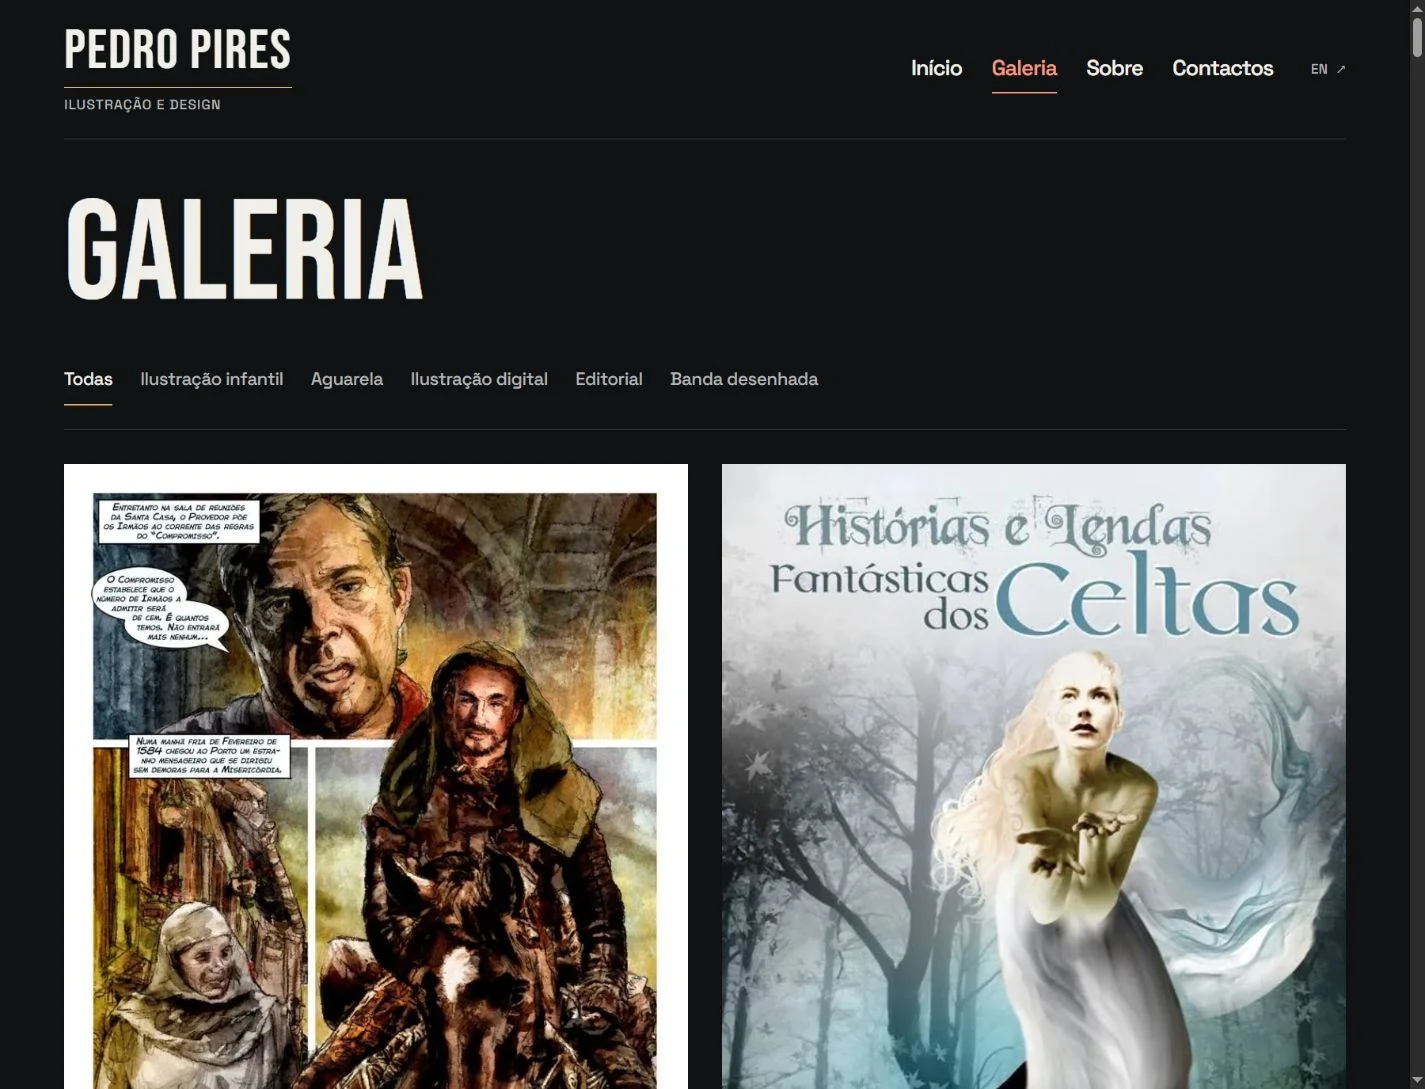
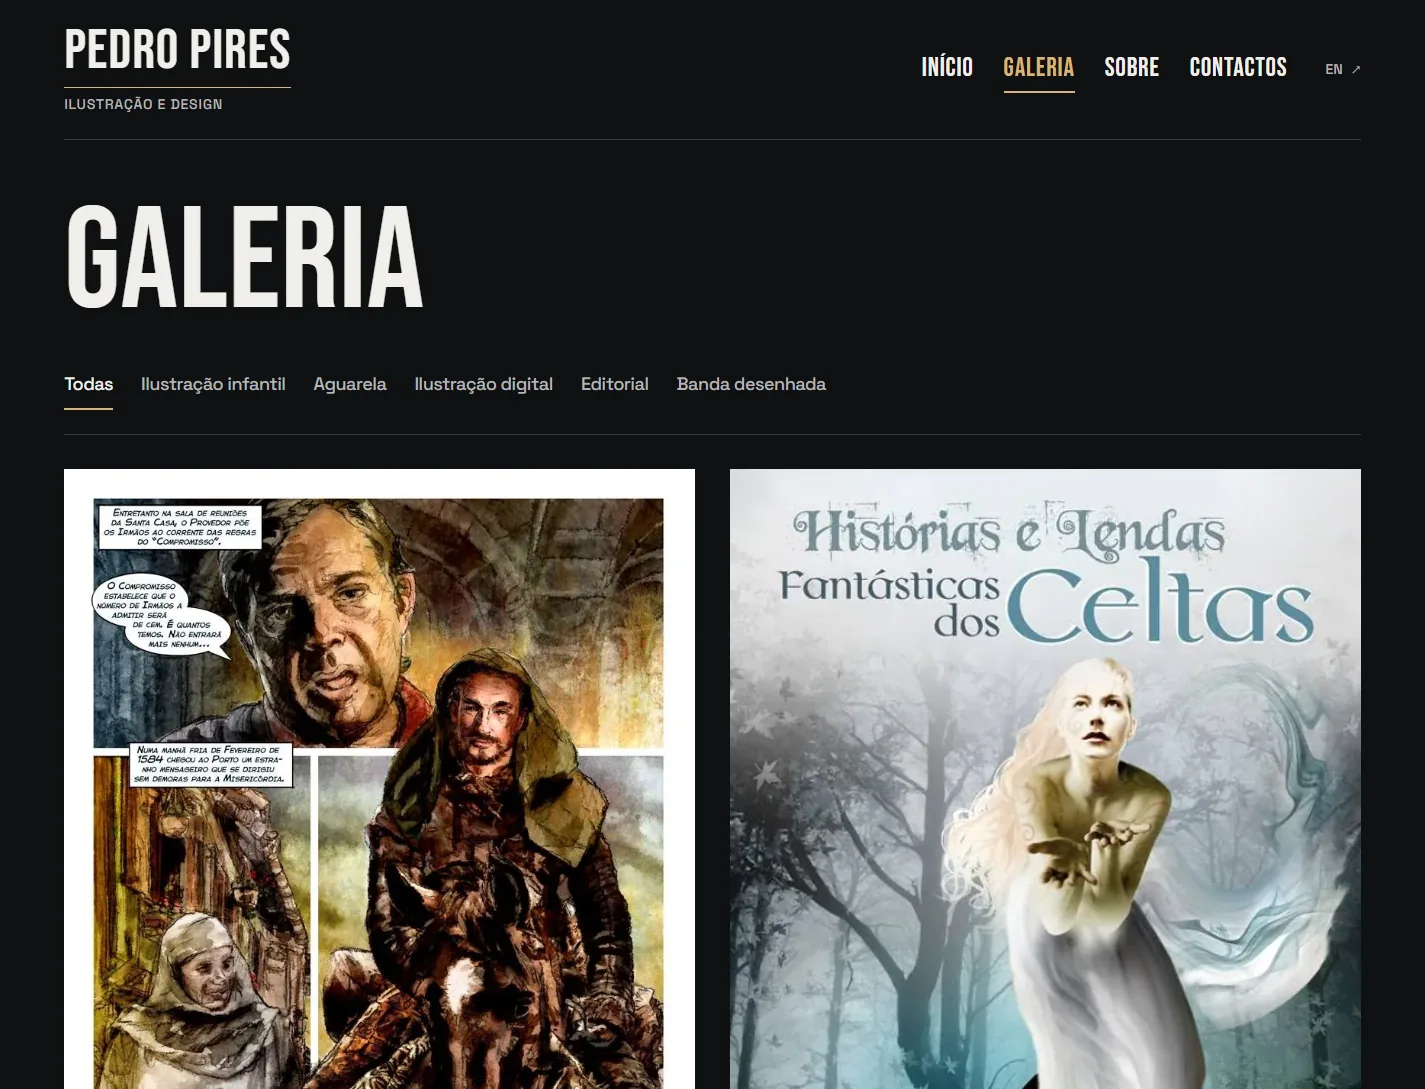
Refresh Pedro Pires screenshots and polish portfolio homepage

diff --git a/src/styles/home.css b/src/styles/home.css
@@ -1,0 +1,23 @@
+/* Homepage refinements shared by PT/EN; other page layouts stay unchanged. */
+:root .home-hero { grid-template-columns:minmax(0, 1fr) auto; gap:clamp(24px,4vw,56px); min-height:0; padding-block:clamp(48px,6vw,80px); }
+:root .home-hero-copy { min-width:0; }
+:root .home-hero h1 { max-width:22ch; margin:0 0 24px; font:600 clamp(32px,4vw,56px)/1.12 var(--display); letter-spacing:-.05em; text-wrap:balance; overflow-wrap:break-word; }
+:root .home-hero-subtitle { max-width:48ch; font-size:clamp(19px,1.7vw,23px); line-height:1.4; letter-spacing:-.025em; }
+:root .home-hero-description { max-width:66ch; line-height:1.7; }
+:root .signature-name { font-size:21px; letter-spacing:.025em; }
+:root .home-profile, :root .home-areas, :root .home-contact { padding-block:clamp(44px,5vw,72px); }
+:root .home-projects { padding-block:clamp(44px,5vw,72px); }
+:root .home-profile-grid h2, :root .home-contact h2 { font-size:clamp(30px,3.7vw,46px); line-height:1.13; letter-spacing:-.045em; text-wrap:balance; }
+:root .home-projects .section-heading h2, :root .home-areas .section-heading h2 { font-size:clamp(30px,3.7vw,46px); line-height:1.13; letter-spacing:-.045em; text-wrap:balance; }
+:root .home-project-card { min-height:0; padding:clamp(22px,2.5vw,32px); box-shadow:none; }
+:root .home-project-card:hover { transform:none; box-shadow:none; }
+:root .home-project-card .project-index { margin-bottom:16px; }
+:root .home-project-card .project-kind { margin-bottom:10px; }
+:root .home-project-card h3 { font-size:clamp(24px,2.1vw,30px); line-height:1.2; text-wrap:balance; }
+:root .home-project-card p { margin:0 0 20px; font-size:15px; line-height:1.7; }
+:root .home-project-card .home-case-study-link { margin-top:14px; }
+:root .home-project-art { display:none; }
+@media(max-width:850px) {
+:root .home-hero { grid-template-columns:minmax(0,1fr); gap:28px; }
+:root .home-hero-signature { justify-self:start; }
+}

diff --git a/src/content/projects/pt/pedro-pires.md b/src/content/projects/pt/pedro-pires.md
@@ -12,7 +12,7 @@ images:
   - src: /images/projects/pedro-pires/home.webp
     width: 1425
     height: 1089
-    alt: "Homepage publicada com a assinatura Pedro Pires, frase de abertura e composição de cinco painéis ilustrados."
+    alt: "Homepage publicada com a assinatura Pedro Pires, navegação e composição de cinco painéis ilustrados."
   - src: /images/projects/pedro-pires/gallery.webp
     width: 1425
     height: 1089

diff --git a/src/content/projects/en/pedro-pires.md b/src/content/projects/en/pedro-pires.md
@@ -12,7 +12,7 @@ images:
   - src: /images/projects/pedro-pires/home.webp
     width: 1425
     height: 1089
-    alt: "Published Homepage with the Pedro Pires identity, opening line and composition of five illustrated panels."
+    alt: "Published Homepage with the Pedro Pires identity, navigation and composition of five illustrated panels."
   - src: /images/projects/pedro-pires/gallery.webp
     width: 1425
     height: 1089
